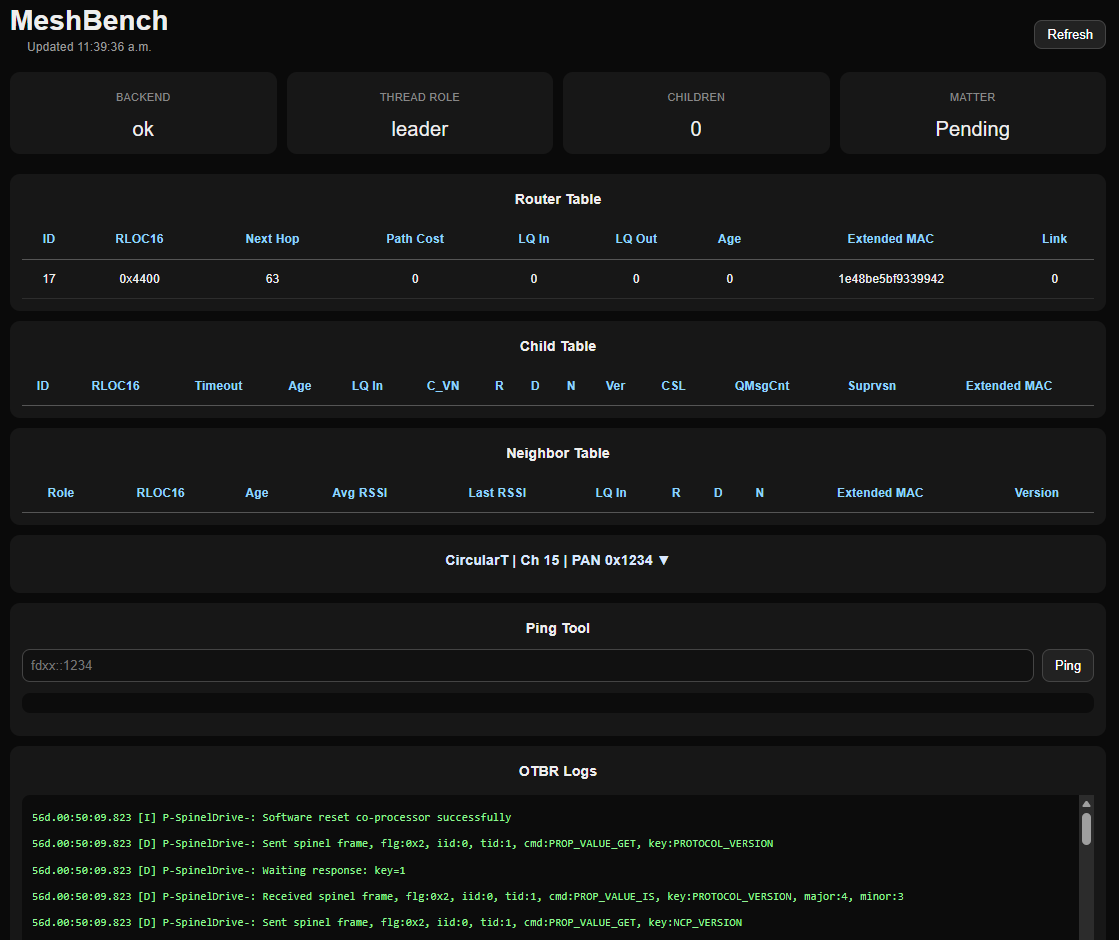
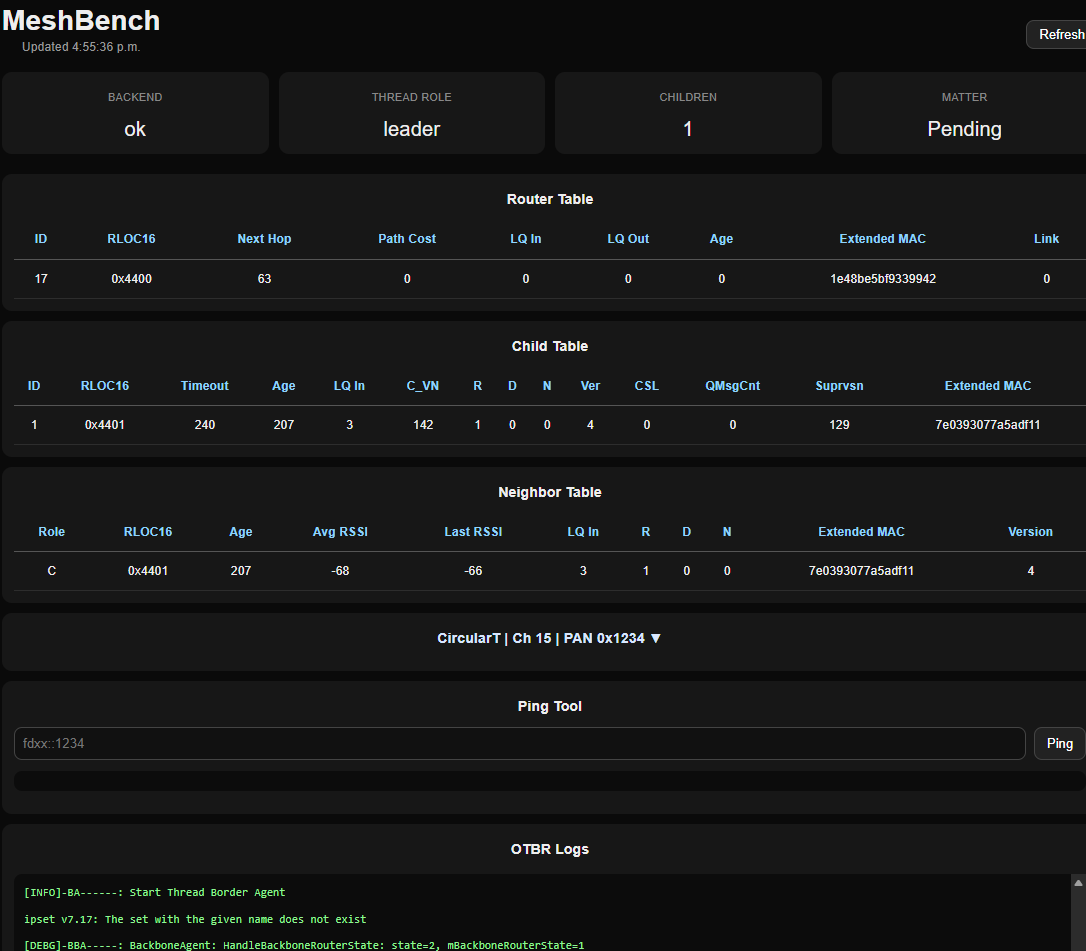
Live Display, ESPHome is first child

diff --git a/README.md b/README.md
@@ -32,12 +32,14 @@ Early development.
 - python-dotenv
 
 ## Milestones
-2026-04-21: MeshBench backend first boot successful.
-2026-04-21: MeshBench reads live Thread state from OTBR
-2026-04-21: Add router table endpoint from OTBR
-2026-04-21: First MeshBench dashboard with live Thread telemetry
-2026-04-21: Polished MeshBench dashboard UI
-2026-04-21: OTBR logs pane added
-2026-04-21: Move frontend and backend settings to env config
-2026-04-23: Add child count, ping command and improve dashboard metrics
-2026-04-23: Refine dataset viewer UX and compact dashboard layout
+- 2026-04-21: MeshBench backend first boot successful.
+- 2026-04-21: MeshBench reads live Thread state from OTBR
+- 2026-04-21: Add router table endpoint from OTBR
+- 2026-04-21: First MeshBench dashboard with live Thread telemetry
+- 2026-04-21: Polished MeshBench dashboard UI
+- 2026-04-21: OTBR logs pane added
+- 2026-04-21: Move frontend and backend settings to env config
+- 2026-04-23: Add child count, ping command and improve dashboard metrics
+- 2026-04-23: Refine dataset viewer UX and compact dashboard layout
+- 2026-04-23: First ESPHome MTD joined Thread network
+- 2026-04-23: MeshBench displayed live child + neighbor telemetry
